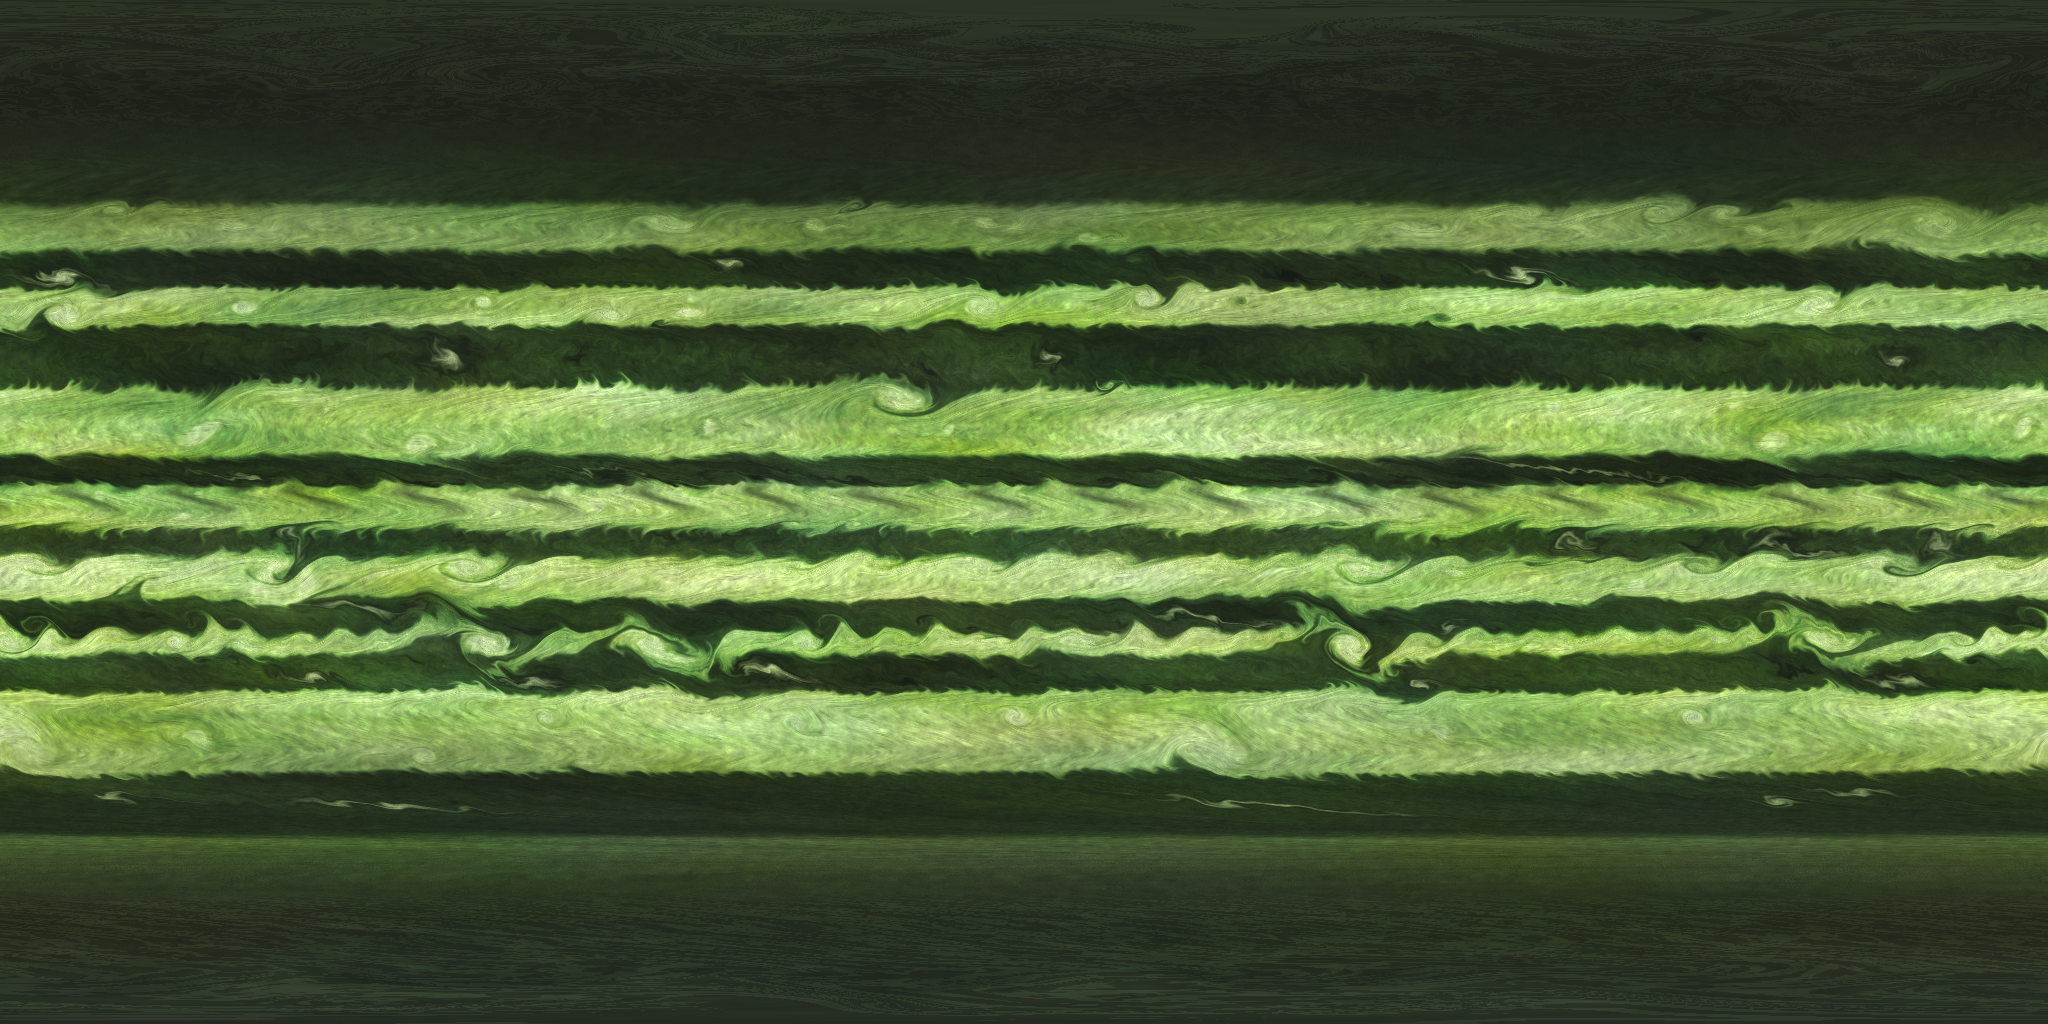
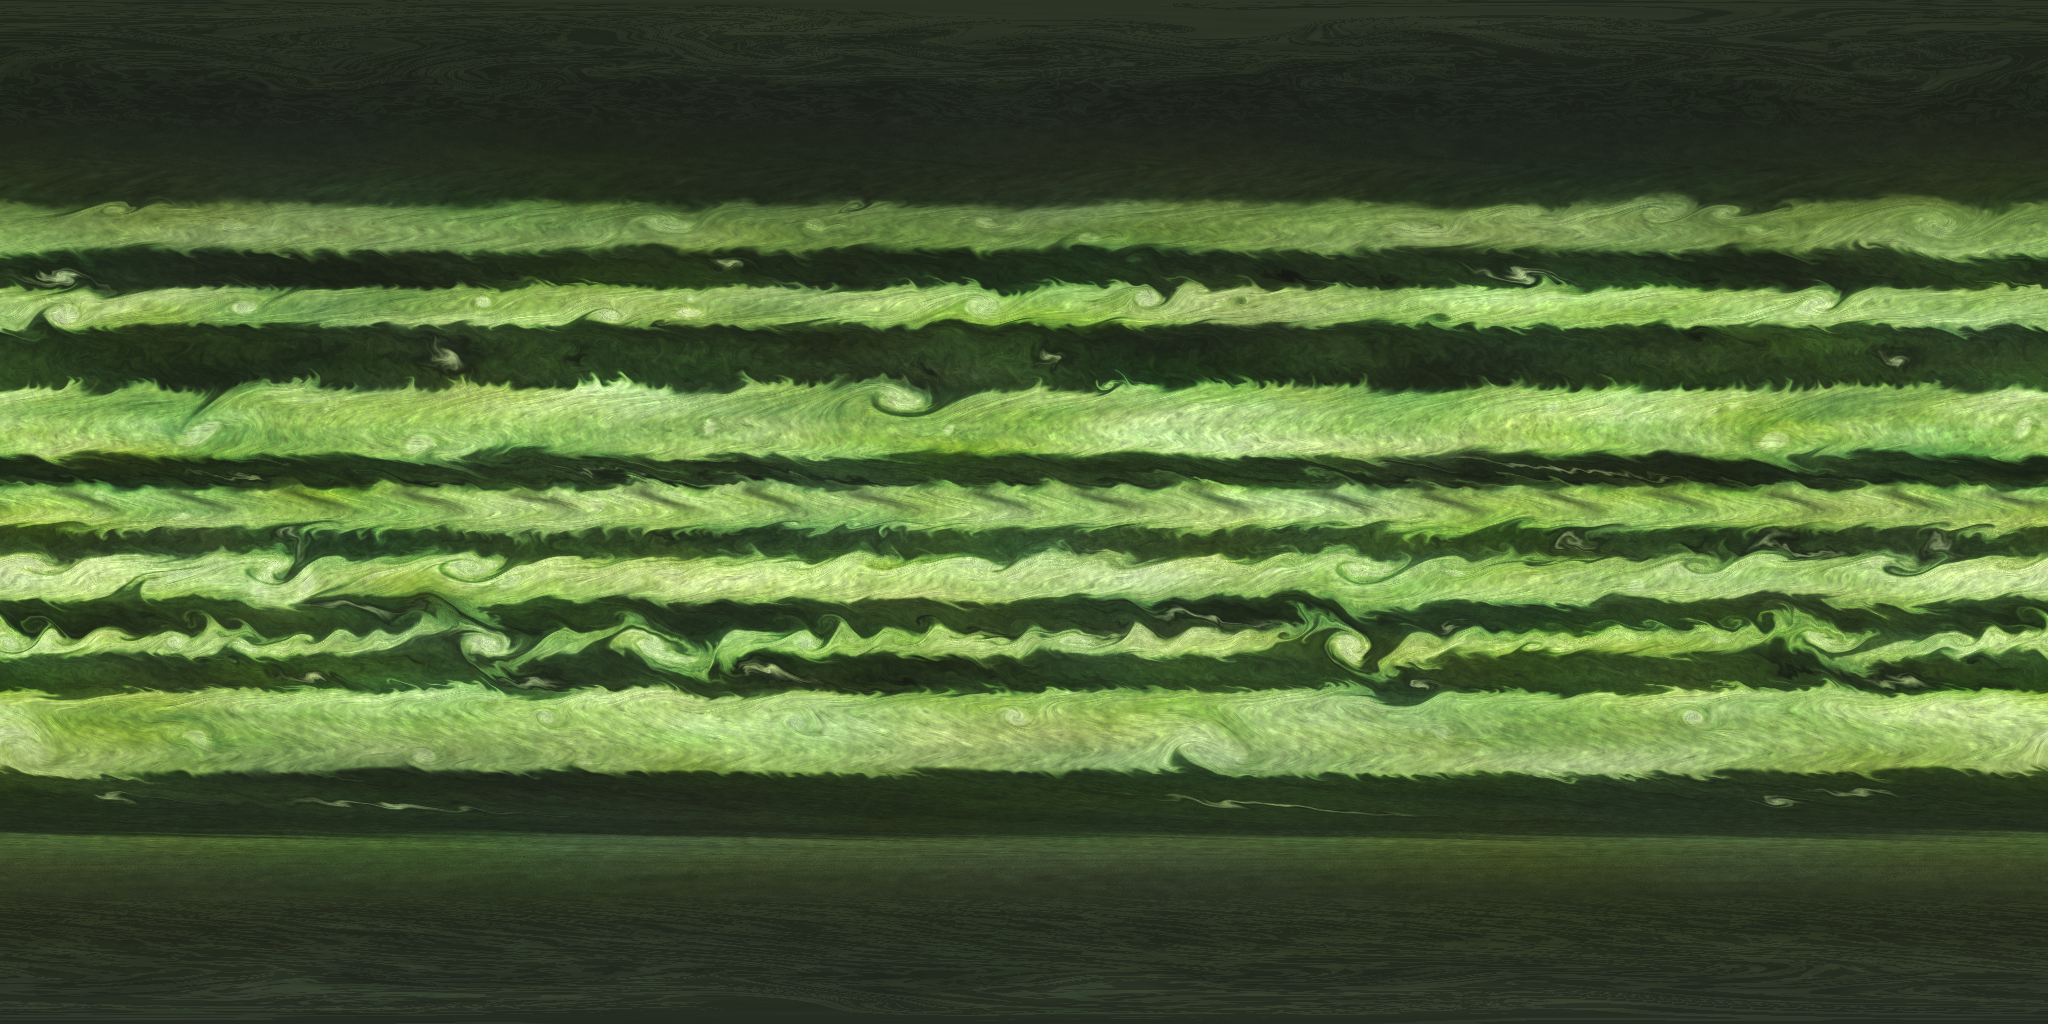
fix(green_giant): close /code-review high findings
Ten findings, no correctness bugs. Two were refuted by measurement and are
recorded as such rather than silently applied.

MEASURED, then acted on:

* bands.warp_amount reverted 0.01 -> 0.04 (library standard). The 0.01 was
  reasoned, not measured: the BELTS mask samples an unwarped latitude profile, so
  a large meander "should" leave churn stopping on straight lines. Refuted twice
  over -- the concern is not new to BELTS (detail.comp samples the same unwarped
  profile for zone_texture and the lightning gate, so gas_giant_warm already ships
  0.04-with-unwarped without the defect), and rendering 0.01 against 0.04 gives a
  mean absolute on-disc difference of 0.007. docs/formations.md calls straight
  band edges "the single biggest 'procedural planet' tell", so trading a
  documented realism lever for an unmeasured worry was the wrong direction.

* The polar-clamp gap is REAL as a regression risk but NOT a present defect. At
  seed 3216 the southernmost band spans -56.95..-90 with value 0.772 -- a
  33-deg-wide bright zone inside the unforced region -- and 57..78 is dominated by
  SUBPOLAR, which the >= 70 guard never saw. Measured zonal-mean luma is 0.29 at
  -60 falling to 0.19 at -85 against 0.67 at the equator, so there is no bright
  ring today. Added a second, looser ceiling (0.66) on the >= 55 rows so a future
  SUBPOLAR brightening cannot repaint an unforced cap in silence.

Guards moved to where CI runs them:
[…]

diff --git a/scripts/build_green_giant_preset.py b/scripts/build_green_giant_preset.py
@@ -323,13 +323,25 @@ BANDS = {
     "contrast_envelope": 0.50,
     "edge_diversity": 0.55,
     "variance_amount": 0.24,
-    # The BELTS inject mask samples an UNWARPED latitude profile
-    # (omega_force.comp), while the visible band edges ride bands.warp_amount.
-    # At warm's 0.04 (~2.3 deg) the churn would stop on razor-straight latitude
-    # lines while the bands it fills meander across them -- a strong candidate for
-    # the "banding reads as imposed" percept this repo has fought before. Keeping
-    # the meander small keeps the two aligned.
-    "warp_amount": 0.01,
+    # warp_amount stays at the library-standard 0.04, and this REVERSES an earlier
+    # cut to 0.01 that was reasoned rather than measured.
+    #
+    # The reasoning was: the BELTS inject mask samples an UNWARPED latitude profile
+    # (omega_force.comp) while visible band edges ride warp_amount, so a large
+    # meander should leave churn stopping on razor-straight lines across meandering
+    # bands. Two things refute it. (a) The concern is NOT new to BELTS --
+    # detail.comp samples the same unwarped u_profile_dyn for zone_texture and the
+    # lightning gate, so gas_giant_warm already ships 0.04-with-unwarped and shows
+    # no such defect. (b) Measured: rendering 0.01 against 0.04 gives a mean
+    # absolute on-disc difference of 0.007, i.e. nothing -- at this injection
+    # amplitude the advection smears the mask boundary well before it can read as
+    # a straight edge.
+    #
+    # Meanwhile 0.01 has a real cost: it is the smallest in the library (every
+    # other preset ships 0.04) and docs/formations.md calls straight band edges
+    # "the single biggest 'procedural planet' tell". Trading a documented realism
+    # lever for an unmeasured alignment worry is the wrong direction.
+    "warp_amount": 0.04,
     # Inheritance pins (warm bakes both; neither belongs here):
     #   faded_sector 0.55 is Jupiter's SEB-FADE epoch feature -- a paled ~100-deg
     #     longitude sector on one belt. Importing a named Jovian epoch event onto a
@@ -628,12 +640,18 @@ def build() -> None:
     assert r.storms.small_density < 2.0, r.storms.small_density
 
     # --- the mask, and the amplitude that has to move with it ------------------
+    # The solver MODE is asserted first, and it is not a formality: the whole
+    # composition rests on vort_inject_mask, which is a NO-OP in kinematic mode.
+    # The mode is inherited from gas_giant_warm rather than set here, so nothing
+    # else in this file would notice it changing -- the same class of silent
+    # inheritance drift the coriolis_f0 == 3.0 assert exists to catch.
+    assert r.solver.type == "vorticity", r.solver.type
     assert r.solver.vort_inject_mask == "belts"
-    # A mask is a MULTIPLIER. belt_mask covers ~38.6% of latitudes against
-    # shear_norm's ~3.3%, so carrying warm's 1.8 across would have applied ~3.3x
-    # warm's integrated forcing -- nearer GLOBAL, which the project record says
-    # dissolves the planet. This assert is the one that would catch a future
-    # "restore the inherited value" edit.
+    # A mask is a MULTIPLIER. belt_mask covers ~47.6% of latitudes against
+    # shear_norm's ~3.9%, so carrying warm's 1.8 across would have applied ~4.9x
+    # warm's integrated forcing (1.8 * 0.475 / 0.173) -- nearer GLOBAL, which the
+    # project record says dissolves the planet. This assert is the one that would
+    # catch a future "restore the inherited value" edit.
     assert r.solver.vort_inject < 1.0, (
         f"vort_inject={r.solver.vort_inject} is un-retuned for the BELTS mask"
     )
@@ -694,9 +712,24 @@ def build() -> None:
     # TUPLES lexicographically, i.e. pick the largest RED channel -- which on a
     # green ramp is not the brightest stop at all. Both are documented bugs in the
     # sibling cobalt_gale script.
+    # TWO ceilings, because the unforced cap is WIDER than the >= 70 rows cover.
+    # omega_force.comp zeroes relative vorticity from ~60-64 deg, and at this seed
+    # the southernmost band spans -56.95..-90 with value 0.772 -- a 33-deg-wide
+    # BRIGHT zone sitting almost entirely inside the unforced region. Between ~57
+    # and ~78 deg bake_rows is dominated by SUBPOLAR, not POLAR, so guarding only
+    # the +-78 rows leaves the equatorward half of that cap unguarded.
+    #
+    # The shipped render is fine -- measured zonal-mean luma runs 0.29 at -60 down
+    # to 0.19 at -85, against 0.67 at the equator, so there is no bright ring
+    # today. This is a REGRESSION guard, not a bug fix: without it a future
+    # brightening of SUBPOLAR would repaint that cap with nothing objecting.
+    # The subpolar ceiling is looser (0.66 vs 0.40) because those rows legitimately
+    # carry mid-tones -- it only has to exclude a haze-crest-grade value.
     for row in r.appearance.palette_rows:
         if abs(row.latitude) >= 70.0:
             assert max(max(s.color) for s in row.stops) < 0.40, row.latitude
+        elif abs(row.latitude) >= 55.0:
+            assert max(max(s.color) for s in row.stops) < 0.66, row.latitude
 
     # Anti-frosting: a flat/pale ramp collapses structure to one pale colour. The
     # repo's own guard (tests/unit/test_presets.py::test_palette_has_value_contrast)

diff --git a/tests/gpu/test_vort_inject_mask.py b/tests/gpu/test_vort_inject_mask.py
@@ -57,51 +57,48 @@ def test_mask_is_noop_when_inject_zero(gpu):
         assert maxdiff <= GPU_NOISE_ATOL, f"mask={mask} changed inject=0 render (maxdiff={maxdiff})"
 
 
-def test_localized_mask_churns_fewer_pixels_than_global(gpu):
-    """With injection on, shear localization must leave materially more of the
-    map untouched than global injection does."""
+def test_localized_masks_churn_fewer_pixels_than_global(gpu):
+    """With injection on, BOTH localized masks must leave materially more of the
+    map untouched than global injection does -- and BELTS must be materially
+    WIDER than SHEAR.
+
+    The belts half was added with `green_giant`, the first factory preset to use
+    that mask. Until then BELTS was exercised ONLY by the inject=0 no-op test
+    above, i.e. only where it is guaranteed inert, while the localization
+    assertion was written for SHEAR alone. A shipped preset now rests on the
+    branch.
+
+    The ORDERING (belts > shear) is the part worth pinning, because it is the
+    sizing rule for `vort_inject`. A mask is a MULTIPLIER, and the two cover very
+    different fractions of the map, so a shear-calibrated amplitude carried across
+    to BELTS applies several times the integrated forcing -- the documented way to
+    dissolve the banding. If a future change quietly narrowed belt_mask, the
+    amplitude guidance in docs/formations.md and build_green_giant_preset.py would
+    become wrong; this fails loudly instead.
+
+    Measured on THIS test's layout (`jupiter_vorticity`, a 12-band template):
+    belt_mask mean 0.556 with 55.6% of latitudes above 0.5, against shear_norm's
+    0.096 and 4.8%. (green_giant's own 16-band seeded layout gives 0.475/47.6%
+    and 0.110/3.9% -- same ordering, different numbers; quote whichever layout you
+    actually measured.)
+
+    All four renders live in one test rather than two: the GPU tier already runs
+    >3 h under llvmpipe, and a separate belts test would re-render the shared
+    baseline/global/shear trio for one new datapoint.
+    """
     baseline = _render(_params(0.0, InjectMask.GLOBAL), gpu)
     glob = _render(_params(0.8, InjectMask.GLOBAL), gpu)
     shear = _render(_params(0.8, InjectMask.SHEAR), gpu)
+    belts = _render(_params(0.8, InjectMask.BELTS), gpu)
 
     global_churn = _changed_fraction(baseline, glob)
     shear_churn = _changed_fraction(baseline, shear)
+    belts_churn = _changed_fraction(baseline, belts)
 
     assert global_churn > 0.1, f"global injection should churn the map (frac={global_churn})"
     assert shear_churn < global_churn, (
         f"shear must localize: churned {shear_churn:.3f} vs global {global_churn:.3f}"
     )
-
-
-def test_belts_mask_localizes_and_is_wider_than_shear(gpu):
-    """BELTS must localize relative to GLOBAL -- and must be materially WIDER
-    than SHEAR.
-
-    Both halves matter, and the second is the one worth pinning. Until
-    `green_giant` shipped, BELTS was exercised ONLY by the inject=0 no-op test
-    above, i.e. only where it is guaranteed inert; the localization assertion was
-    written for SHEAR alone. A preset now rests on this branch.
-
-    The ordering is not a curiosity, it is the sizing rule for `vort_inject`. A
-    mask is a MULTIPLIER, and the two cover very different fractions of the map:
-    measured on a 16-band layout, belt_mask means 0.475 with 47.6% of latitudes
-    above 0.5, against shear_norm's 0.110 and 3.9%. So carrying a shear-calibrated
-    amplitude across to BELTS applies several times the integrated forcing, which
-    is the documented way to dissolve the banding. Pinning belts > shear here means
-    a future change that quietly narrowed belt_mask -- making the amplitude advice
-    in docs/formations.md and build_green_giant_preset.py wrong -- fails loudly
-    instead of silently re-tuning a shipped preset.
-    """
-    baseline = _render(_params(0.0, InjectMask.GLOBAL), gpu)
-    glob = _render(_params(0.8, InjectMask.GLOBAL), gpu)
-    belts = _render(_params(0.8, InjectMask.BELTS), gpu)
-    shear = _render(_params(0.8, InjectMask.SHEAR), gpu)
-
-    global_churn = _changed_fraction(baseline, glob)
-    belts_churn = _changed_fraction(baseline, belts)
-    shear_churn = _changed_fraction(baseline, shear)
-
-    assert global_churn > 0.1, f"global injection should churn the map (frac={global_churn})"
     assert belts_churn > 0.0, (
         "BELTS injection changed nothing -- the mask is inert, not localized"
     )

diff --git a/tests/unit/test_presets.py b/tests/unit/test_presets.py
@@ -17,6 +17,7 @@ from gasgiant.params.presets import (
     save_preset,
     user_preset_names,
 )
+from gasgiant.sim.bands import generate_bands
 
 
 def test_factory_presets_exist_and_load():
@@ -110,6 +111,56 @@ def test_vorticity_preset_is_live():
     # gravest-mode insurance, well under the over-flatten regime.
     assert 0.0 < p.solver.vort_psi_drag <= 0.3, p.solver.vort_psi_drag
     assert p.storms.hero_solid_core == 1.0, "hero reverted to Gaussian whirlpool"
+
+
+def test_green_giant_composition_invariants():
+    """green_giant's load-bearing invariants, pinned where CI actually runs them.
+
+    These are also asserted in scripts/build_green_giant_preset.py, but NOTHING in
+    the test suite or ci.yml executes that script -- so a hand-edit of the shipped
+    JSON, or a change to generate_bands, would pass CI in silence. The build-script
+    asserts guard the BUILD; this guards the SHIPPED ARTIFACT.
+
+    Each pin corresponds to a way the preset can be silently destroyed:
+
+    * solver mode -- vort_inject_mask is a NO-OP in kinematic mode, and the mode is
+      inherited from gas_giant_warm rather than set explicitly, so nothing in the
+      preset itself would notice it changing.
+    * the mask AND its amplitude together. A mask is a MULTIPLIER, and belt_mask
+      covers ~48% of latitudes against shear_norm's ~4%, so restoring warm's
+      inherited vort_inject=1.8 would apply ~5x warm's integrated forcing and
+      dissolve the banding. The mask is only half the setting.
+    * EVEN band count on the seeded path. is_belt is `values < median(values)`, so
+      at an odd count with belts in the majority the median IS the top belt value
+      and one belt is silently reclassified as a zone (measured: count 15 fails on
+      204/400 seeds, count 16 on 0). The model's alternation validator runs ONLY on
+      the template path, which this preset does not use.
+    * the palette is actually GREEN. An earlier draft measured hue 60-72 deg --
+      yellow -- with a brightest stop at R == G, i.e. zero green content. For a
+      preset named green_giant that is the one defect worth a dedicated test.
+    """
+    p = load_factory_preset("green_giant")
+    assert p.solver.type.value == "vorticity", "belts mask is inert in kinematic mode"
+    assert p.solver.vort_inject_mask.value == "belts"
+    assert 0.0 < p.solver.vort_inject < 1.0, (
+        f"vort_inject={p.solver.vort_inject} is un-retuned for the wide BELTS mask"
+    )
+    assert p.storms.hero_count == 0, "the composition is an alternation, not a hero"
+
+    # Seeded path, even count, and identity that actually alternates. Assert the
+    # CONSEQUENCE (run the real layout) rather than the parity rule, so a future
+    # seed or generate_bands change is caught too.
+    assert p.bands.template is None, "inherited warm's 12-band Jovian template"
+    assert p.bands.count % 2 == 0, f"odd count {p.bands.count} can misclassify a belt"
+    flags = list(generate_bands(p.seed, p.bands).is_belt)
+    assert all(a != b for a, b in zip(flags, flags[1:], strict=False)), flags
+
+    # Green, not khaki: G must lead R through the upper half of the mid rows.
+    for row in p.appearance.palette_rows:
+        if abs(row.latitude) <= 32.0:
+            for s in (s for s in row.stops if s.pos >= 0.5):
+                red, green, _ = s.color
+                assert green - red >= 0.08, (row.latitude, s.pos, s.color)
 
 
 def test_jupiter_vorticity_polar_values_persist():

diff --git a/scripts/render_readme_examples.py b/scripts/render_readme_examples.py
@@ -5,9 +5,11 @@ reduced sim grid so the set stays tractable under software GL (llvmpipe); the
 exported color map is downsampled to an 8-bit sRGB PNG under
 ``docs/img/presets/``.
 
-One exception dominates the runtime: ``ember_dwarf`` is pinned to its shipped
-sim-res 4096 (see ``SIM_RES_OVERRIDES``), which is 16x the pixels of the default
-grid, so budget for it separately -- ``--presets`` a subset, or ``--force-sim-res``
+TWO presets dominate the runtime: ``ember_dwarf`` and ``green_giant`` are each
+pinned to their shipped sim-res 4096 (see ``SIM_RES_OVERRIDES``), which is 16x the
+pixels of the default grid. Budget for BOTH separately -- a plain full-set regen
+pays that cost twice, which under software GL is hours, not minutes. Either
+``--presets`` a subset, or ``--force-sim-res``
 to override the pin for a fast smoke render (which is written under
 ``--work-dir/forced``, never over the committed asset).
 

diff --git a/docs/superpowers/specs/2026-07-26-green-giant-preset-design.md b/docs/superpowers/specs/2026-07-26-green-giant-preset-design.md
@@ -91,9 +91,19 @@ Mean-mask matching gives 0.36 (`1.8 × 0.096 ≈ 0.36 × 0.475`). That is where 
 where to stop: the same integral spread over 12× the area still reads much busier, and the
 shipped value is **0.30**.
 
-Second trap: the mask samples an **unwarped** latitude profile (`omega_force.comp`) while
-visible band edges ride `bands.warp_amount`. At warm's 0.04 (~2.3°) the churn would stop on
-razor-straight latitude lines while the bands meander across them. Shipped at 0.01.
+Second trap, **and it turned out not to be one** — recorded because the reasoning was
+plausible and wrong. The mask samples an **unwarped** latitude profile
+(`omega_force.comp`) while visible band edges ride `bands.warp_amount`, which suggests a
+large meander leaves churn stopping on razor-straight lines across meandering bands. The
+preset initially shipped `warp_amount` 0.01 on that basis. Two things refute it: the
+concern is **not new to `belts`** (`detail.comp` samples the same unwarped `u_profile_dyn`
+for `zone_texture` and the lightning gate, so `gas_giant_warm` already ships
+0.04-with-unwarped without the defect), and measured, 0.01 against 0.04 gives a mean
+absolute on-disc difference of **0.007** — at this injection amplitude the advection smears
+the mask boundary long before it can read as a straight edge. Reverted to the
+library-standard 0.04, since `docs/formations.md` calls straight band edges "the single
+biggest 'procedural planet' tell" and trading a documented realism lever for an unmeasured
+worry is the wrong direction.
 
 **The mask was proved before being committed to** — a detail-off A/B at sim-res 1024,
 `belts @0.30` against `shear @1.8`. `belts` won decisively: crisp lane alternation with
@@ -172,8 +182,17 @@ and would not have filled the gap it exists to fill. The build script now assert
 
 Polar rows are clamped (no stop above 0.40): poleward of ~60–64° `omega_force.comp` zeroes
 relative vorticity, and bands lay out in sin-latitude so the outermost are ~33° wide — a
-large unforced cap that paints whatever the outer bands hold. Measured on the shipped
-preset: lat +85 luma 0.143, −85 0.161. The clamp works.
+large unforced cap that paints whatever the outer bands hold.
+
+**The clamp is applied at two ceilings, because the unforced cap is wider than the ±78
+rows cover.** At seed 3216 the southernmost band spans **−56.95°..−90° with value 0.772**
+— a 33°-wide *bright zone* sitting almost entirely inside the unforced region — and
+between ~57° and ~78° `bake_rows` is dominated by `SUBPOLAR`, not `POLAR`. The shipped
+render is fine (zonal-mean luma 0.29 at −60° falling to 0.19 at −85°, against 0.67 at the
+equator, so there is no bright ring), but nothing *asserted* that, so a future brightening
+of `SUBPOLAR` could repaint the cap silently. The build script now also caps the ≥55° rows
+at a looser 0.66 — enough to exclude a haze-crest-grade value while leaving those rows
+their legitimate mid-tones. This is a regression guard, not a bug fix.
 
 ## `chroma_aging` is disqualifying — analytically, not by taste
 

diff --git a/README.md b/README.md
@@ -112,8 +112,9 @@ many narrow bands.
 
 ![ember_dwarf developed for 1,000 steps](docs/img/presets/ember_dwarf.png)
 
-> `ember_dwarf`'s image is rendered at its shipped `sim.resolution` 4096, not the
-> reduced grid used for the others: its tears come from convective excursions, so
+> `ember_dwarf`'s image is rendered at its shipped `sim.resolution` 4096 rather
+> than the reduced grid (it is one of two presets pinned this way — see
+> `green_giant` below): its tears come from convective excursions, so
 > the fraction of the disc reaching ember grows by about half again between sim-res
 > 1024 and 4096 (13% → 20% of the disc), and the reduced grid understates it. The
 > generator enforces this per-preset, so a plain regen cannot overwrite it.

diff --git a/CLAUDE.md b/CLAUDE.md
@@ -46,7 +46,7 @@ it. Seeded band path, and on that path `count` must be EVEN — at an odd count 
 in the majority the median IS the top belt value, so `values < median` silently
 misclassifies one belt as a zone; the model's alternation validator only runs on the
 TEMPLATE path). saturn_pale, cobalt_gale and green_giant are the three `hero_count=0`
-presets; ember_dwarf and cobalt_gale are the non-solar-system ones. The GUI (post PR #13) has
+presets; ember_dwarf, cobalt_gale and green_giant are the non-solar-system ones. The GUI (post PR #13) has
 searchable auto-generated panels, per-slider help, undo/redo, and playback controls.
 
 ## Testing policy
